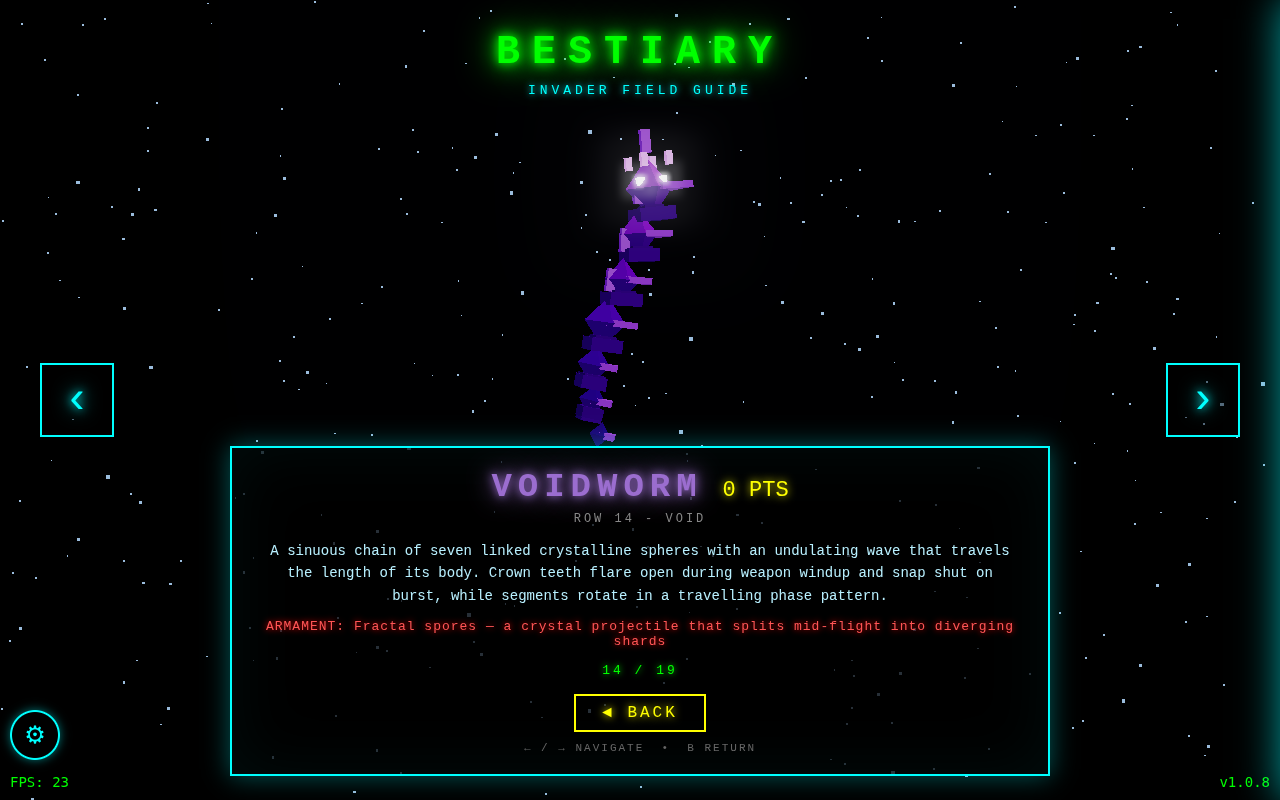
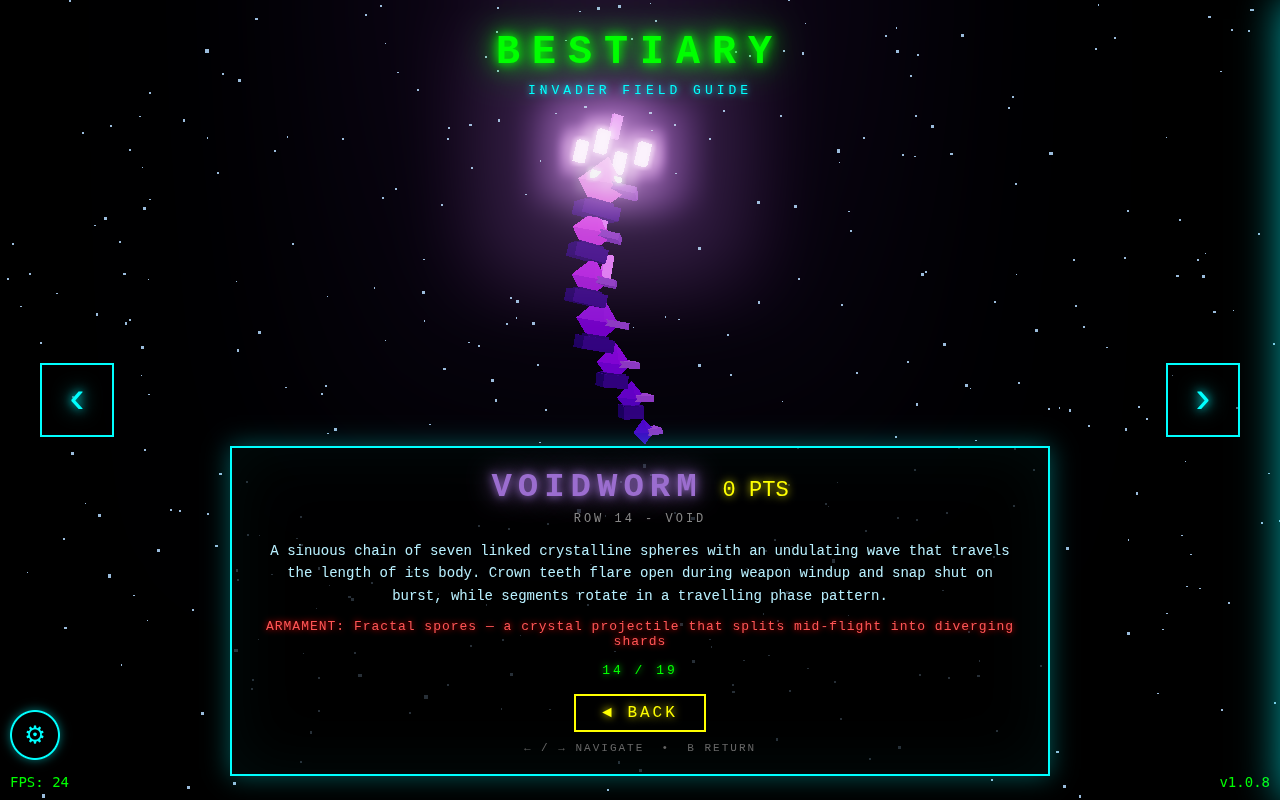
voidworm: fix eyes on head segment, boost lower segment brightness/contrast (score 8.0)

Changed region(s): [[0.3438, 0.0, 0.625, 0.5625]]

diff --git a/js/aliens.js b/js/aliens.js
@@ -3034,11 +3034,14 @@ function getVoidwormParts() {
         segmentMaterials: VOIDWORM_RADII.map((_, i) => {
             // Each segment gets a distinct hue so the chain reads as individual crystals,
             // not a uniform tube. Wide spectrum: magenta → purple → violet → blue-violet → deep indigo.
-            const colors = [0xdd55ff, 0xbb33ee, 0x9922dd, 0x7711cc, 0x5500aa, 0x330088, 0x220066];
+            // Bottom segments boosted to stay visible against the black starfield.
+            const colors = [0xdd55ff, 0xbb33ee, 0x9922dd, 0x8833cc, 0x7722bb, 0x6611aa, 0x551199];
+            const emissives = [0xdd55ff, 0xbb33ee, 0x9922dd, 0x7711cc, 0x6611bb, 0x5511aa, 0x4411aa];
+            const intensities = [0.7, 0.7, 0.7, 0.7, 0.9, 0.9, 1.0];
             return new THREE.MeshPhongMaterial({
                 color: colors[i],
-                emissive: VOIDWORM_DEEP,
-                emissiveIntensity: 0.7,
+                emissive: emissives[i],
+                emissiveIntensity: intensities[i],
                 // MeshPhongMaterial defaults specular to 0x111111, so shininess
                 // 120 lit nothing and the octahedron faces read as flat paper.
                 // A real specular colour is what makes the facets catch light.
@@ -3110,16 +3113,14 @@ function createVoidwormAlien(group) {
     group.add(bodyPivot);
     group.userData.bodyPivot = bodyPivot;
 
-    // Crown teeth — bright crown on the head
+    // Crown teeth — bright crown on the head (attached to head segment, NOT bodyPivot)
     const teeth = new THREE.Mesh(parts.teethGeometry, parts.teethMaterial.clone());
     teeth.position.set(0, 0.10, 0);
-    bodyPivot.add(teeth);
     group.userData.teeth = teeth;
 
-    // Eyes — paired bright spots on the head
+    // Eyes — paired bright spots on the head (attached to head segment, NOT bodyPivot)
     const eyes = new THREE.Mesh(parts.eyeGeometry, parts.eyeMaterial.clone());
     eyes.position.set(0, 0, 0);
-    bodyPivot.add(eyes);
     group.userData.eyes = eyes;
 
     // 7 crystalline segments, each parented to its own pivot for undulation
